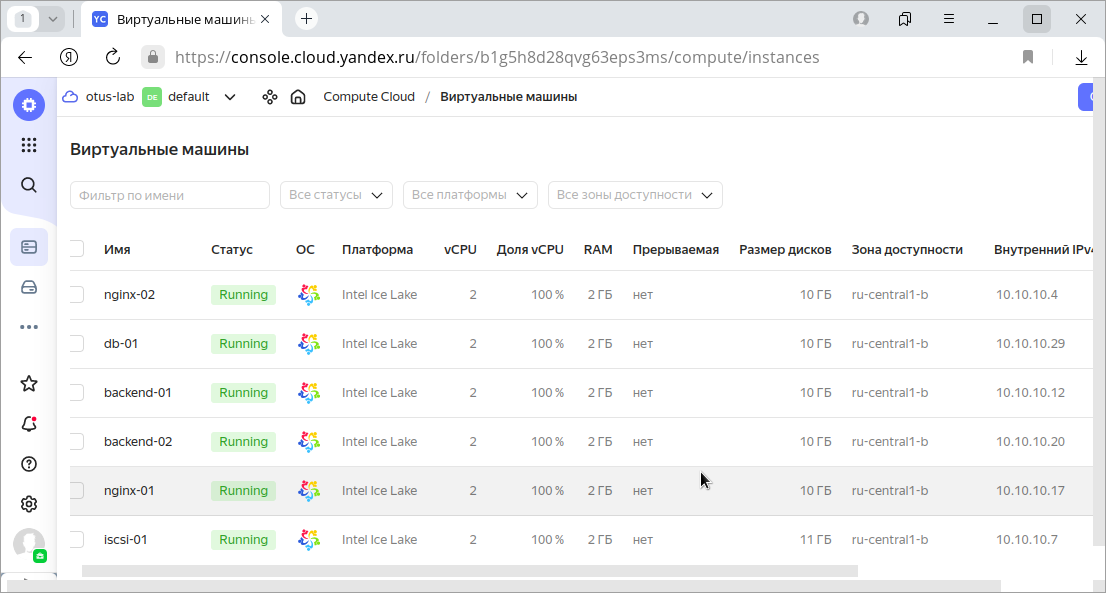
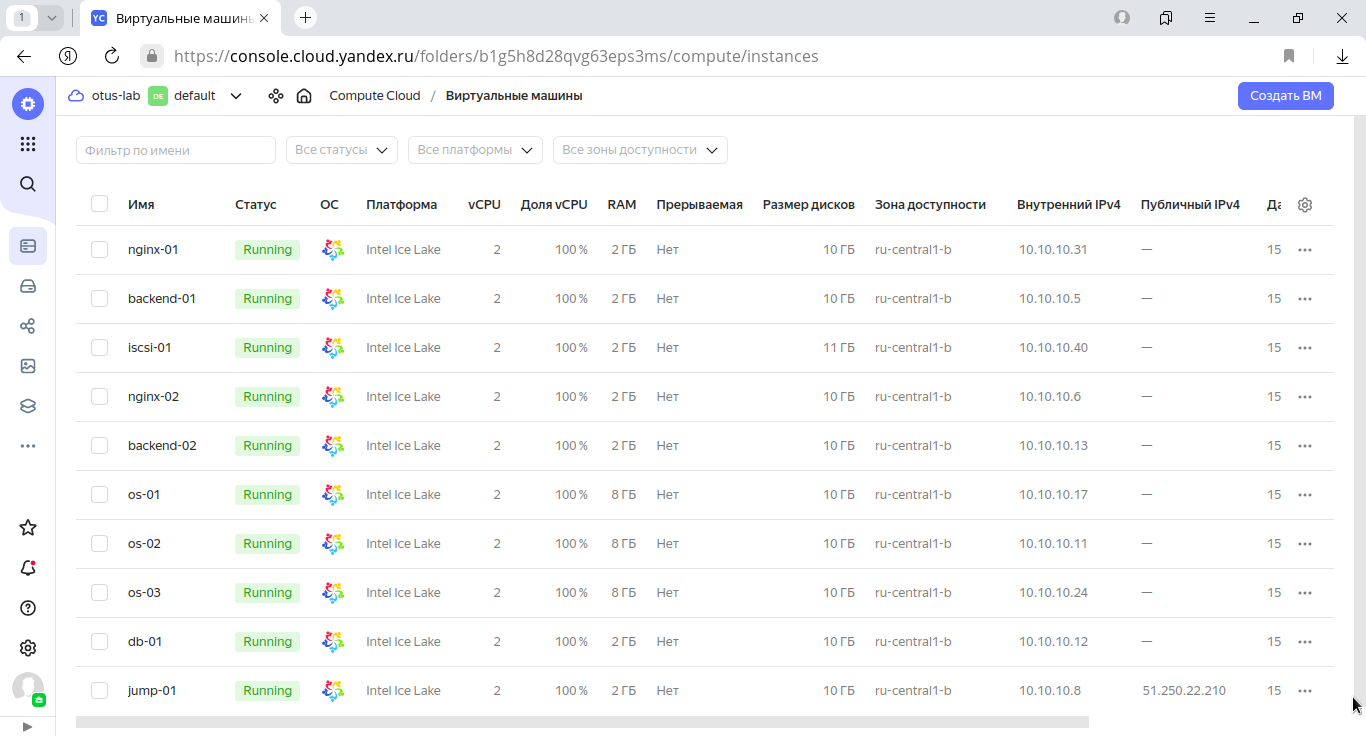
edit README.md and other files, add screens

diff --git a/README.md b/README.md
@@ -72,7 +72,7 @@ backend-servers-info = {
   }
   "backend-02" = {
     "ip_address" = tolist([
-      "10.10.10.31",
+      "10.10.10.13",
     ])
     "nat_ip_address" = tolist([
       "",
@@ -82,23 +82,7 @@ backend-servers-info = {
 db-servers-info = {
   "db-01" = {
     "ip_address" = tolist([
-      "10.10.10.28",
-    ])
-    "nat_ip_address" = tolist([
-      "",
-    ])
-  }
-  "db-02" = {
-    "ip_address" = tolist([
-      "10.10.10.27",
-    ])
-    "nat_ip_address" = tolist([
-      "",
-    ])
-  }
-  "db-03" = {
-    "ip_address" = tolist([
-      "10.10.10.16",
+      "10.10.10.12",
     ])
     "nat_ip_address" = tolist([
       "",
@@ -108,7 +92,7 @@ db-servers-info = {
 iscsi-servers-info = {
   "iscsi-01" = {
     "ip_address" = tolist([
-      "10.10.10.7",
+      "10.10.10.40",
     ])
     "nat_ip_address" = tolist([
       "",
@@ -118,32 +102,17 @@ iscsi-servers-info = {
 jump-servers-info = {
   "jump-01" = {
     "ip_address" = tolist([
-      "10.10.10.29",
+      "10.10.10.8",
     ])
     "nat_ip_address" = tolist([
-      "158.160.68.18",
+      "51.250.22.210",
     ])
   }
 }
-loadbalancer-info = toset([
-  {
-    "external_address_spec" = toset([
-      {
-        "address" = "158.160.69.81"
-        "ip_version" = "ipv4"
-      },
-    ])
-    "internal_address_spec" = toset([])
-    "name" = "http-listener"
-    "port" = 80
-    "protocol" = "tcp"
-    "target_port" = 80
-  },
-])
 nginx-servers-info = {
   "nginx-01" = {
     "ip_address" = tolist([
-      "10.10.10.18",
+      "10.10.10.31",
     ])
     "nat_ip_address" = tolist([
       "",
@@ -151,7 +120,33 @@ nginx-servers-info = {
   }
   "nginx-02" = {
     "ip_address" = tolist([
-      "10.10.10.25",
+      "10.10.10.6",
+    ])
+    "nat_ip_address" = tolist([
+      "",
+    ])
+  }
+}
+os-servers-info = {
+  "os-01" = {
+    "ip_address" = tolist([
+      "10.10.10.17",
+    ])
+    "nat_ip_address" = tolist([
+      "",
+    ])
+  }
+  "os-02" = {
+    "ip_address" = tolist([
+      "10.10.10.11",
+    ])
+    "nat_ip_address" = tolist([
+      "",
+    ])
+  }
+  "os-03" = {
+    "ip_address" = tolist([
+      "10.10.10.24",
     ])
     "nat_ip_address" = tolist([
       "",
@@ -162,7 +157,7 @@ nginx-servers-info = {
 
 На всех серверах будут установлены ОС Almalinux 8, настроены смнхронизация времени Chrony, система принудительного контроля доступа SELinux, в качестве firewall будет использоваться NFTables.
 
-Стенд был взят из лабораторной работы 4 https://github.com/SergSha/lab-04. К этому стенду добавляем кластер, состоящий из серверов os-01, os-02 и os-03. Для создания OpenSearch кластера будем использовать кластер PostgreSQL с ипользованием Patroni, ETCD и HAProxy.
+Стенд был взят из лабораторной работы 4 https://github.com/SergSha/lab-04. Для создания OpenSearch кластера к этому стенду добавляем кластер, состоящий из серверов os-01, os-02 и os-03. На сервер Jump-01, так он имеет публичный IP адрес, будем устанавливать OpenSearch Dashboard.
 
 Так как на YandexCloud ограничено количество выделяемых публичных IP адресов, в дополнение к этому стенду создадим ещё один сервер jump-01 в качестве JumpHost, через который будем подключаться по SSH (в частности для Ansible) к другим серверам той же подсети.
 
@@ -170,9 +165,122 @@ nginx-servers-info = {
 
 <img src="pics/screen-001.png" alt="screen-001.png" />
 
-С помощью ssh через jump-сервер jump-01 подключися к какому-либо сервера PostgreSQL кластера, например, db-02:
+Для проверки работы стенда воспользуемся отображением простой страницы собственноручно созданного сайта на PHP, 
+имитирующий продажу новых и подержанных автомобилей:
+
+<img src="pics/screen-002.png" alt="screen-002.png" />
+
+Значение IP адреса сайта получен от балансировщика от YandexCloud:
+
+<img src="pics/screen-003.png" alt="screen-003.png" />
+
+Страница OpenSearch Dashboard открывается в браузере, вводя в адресную строку публичный IP адрес сервера jump-01 с портом 5601:
 ```
-ssh -J cloud-user@158.160.68.18 cloud-user@10.10.10.27
+51.250.22.210:5601
 ```
 
-Посмотрим конфиги кластера:
+<img src="pics/screen-004.png" alt="screen-004.png" />
+
+Вводим логин и пароль и кликаем по кнопке "Log In":
+
+<img src="pics/screen-005.png" alt="screen-005.png" />
+
+Стартовая страница:
+
+<img src="pics/screen-006.png" alt="screen-006.png" />
+
+Кликаем на "Главное меню", выбираем "Discover":
+
+<img src="pics/screen-007.png" alt="screen-007.png" />
+
+Кликаем по кнопке "Create index pattern":
+
+<img src="pics/screen-008.png" alt="screen-008.png" />
+
+<img src="pics/screen-009.png" alt="screen-009.png" />
+
+В поле "Index pattern name" вводим "logstash-*" и кликаем по кнопке "Next step":
+
+<img src="pics/screen-010.png" alt="screen-010.png" />
+
+<img src="pics/screen-011.png" alt="screen-011.png" />
+
+Из списка "Time field" выбираем "@timestamp":
+
+<img src="pics/screen-012.png" alt="screen-012.png" />
+
+<img src="pics/screen-013.png" alt="screen-013.png" />
+
+Кликаем по кнопке "Create index pattern":
+
+<img src="pics/screen-014.png" alt="screen-014.png" />
+
+<img src="pics/screen-015.png" alt="screen-015.png" />
+
+Снова кликаем по кнопке "Главное меню" и выбираем "Discover":
+
+<img src="pics/screen-016.png" alt="screen-016.png" />
+
+Получаем следующую картину:
+
+<img src="pics/screen-017.png" alt="screen-017.png" />
+
+Отключим одну виртуальную машину из кластера OpenSearch, например, os-01:
+
+<img src="pics/screen-018.png" alt="screen-018.png" />
+
+<img src="pics/screen-019.png" alt="screen-019.png" />
+
+Обновим страницу:
+
+<img src="pics/screen-020.png" alt="screen-020.png" />
+
+<img src="pics/screen-021.png" alt="screen-021.png" />
+
+Как видим, страница работает с отключенным os-01.
+
+Отключим ещё одну виртуальную машину из кластера OpenSearch, например, os-02:
+
+<img src="pics/screen-022.png" alt="screen-022.png" />
+
+Обновим страницу:
+
+<img src="pics/screen-023.png" alt="screen-023.png" />
+
+<img src="pics/screen-024.png" alt="screen-024.png" />
+
+Как видим, страница работает при включенном os-03 и отключенных os-01 и os-02.
+
+Включим виртуальную машину os-01 и отключим os-03:
+
+<img src="pics/screen-025.png" alt="screen-025.png" />
+
+Обновим страницу:
+
+<img src="pics/screen-026.png" alt="screen-026.png" />
+
+<img src="pics/screen-027.png" alt="screen-027.png" />
+
+Как видим, страница работает при включенном os-01 и отключенных os-02 и os-03.
+
+Включим виртуальную машину os-02 и снова отключим os-01:
+
+<img src="pics/screen-028.png" alt="screen-028.png" />
+
+Снова обновим страницу:
+
+<img src="pics/screen-029.png" alt="screen-029.png" />
+
+<img src="pics/screen-030.png" alt="screen-030.png" />
+
+Как видим, страница работает при включенном os-02 и отключенных os-01 и os-03.
+
+Можно делать вывод, чтобы кластер OpenSearch корректно функционирует при любых вариантах отключения серверов.
+
+
+#### Удаление стенда
+
+Удалить развернутый стенд командой:
+```
+terraform destroy -auto-approve
+```
